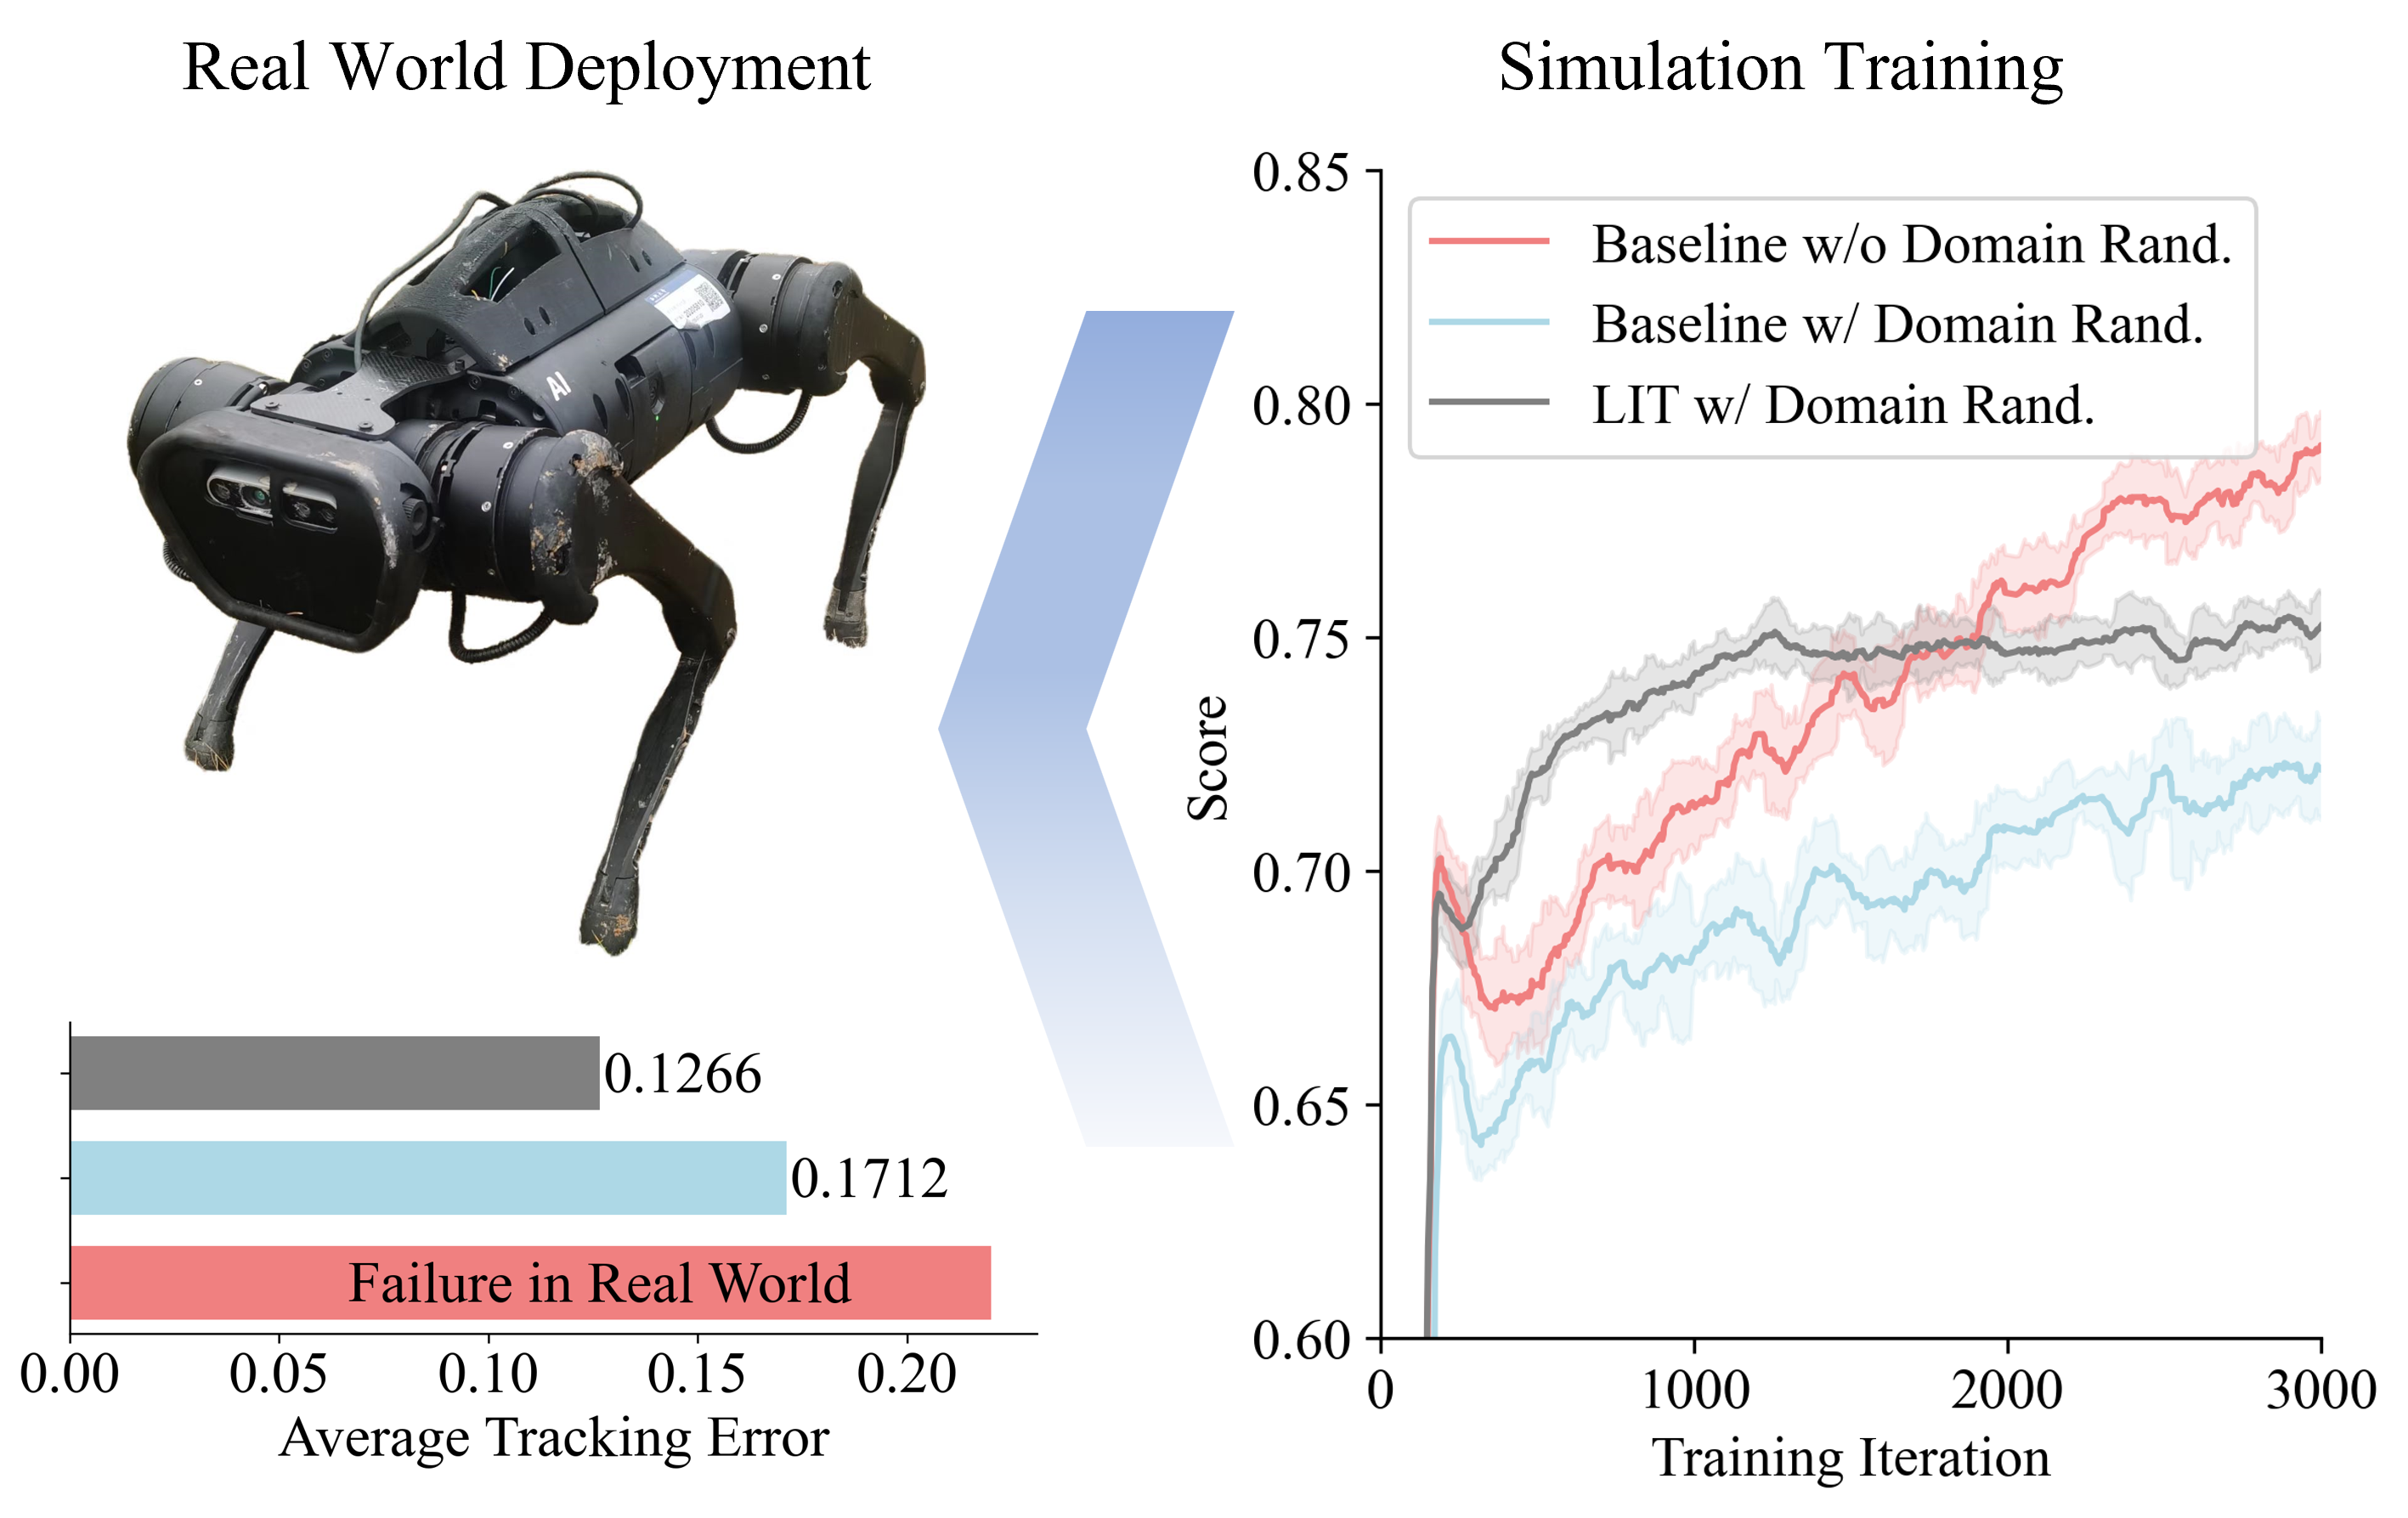
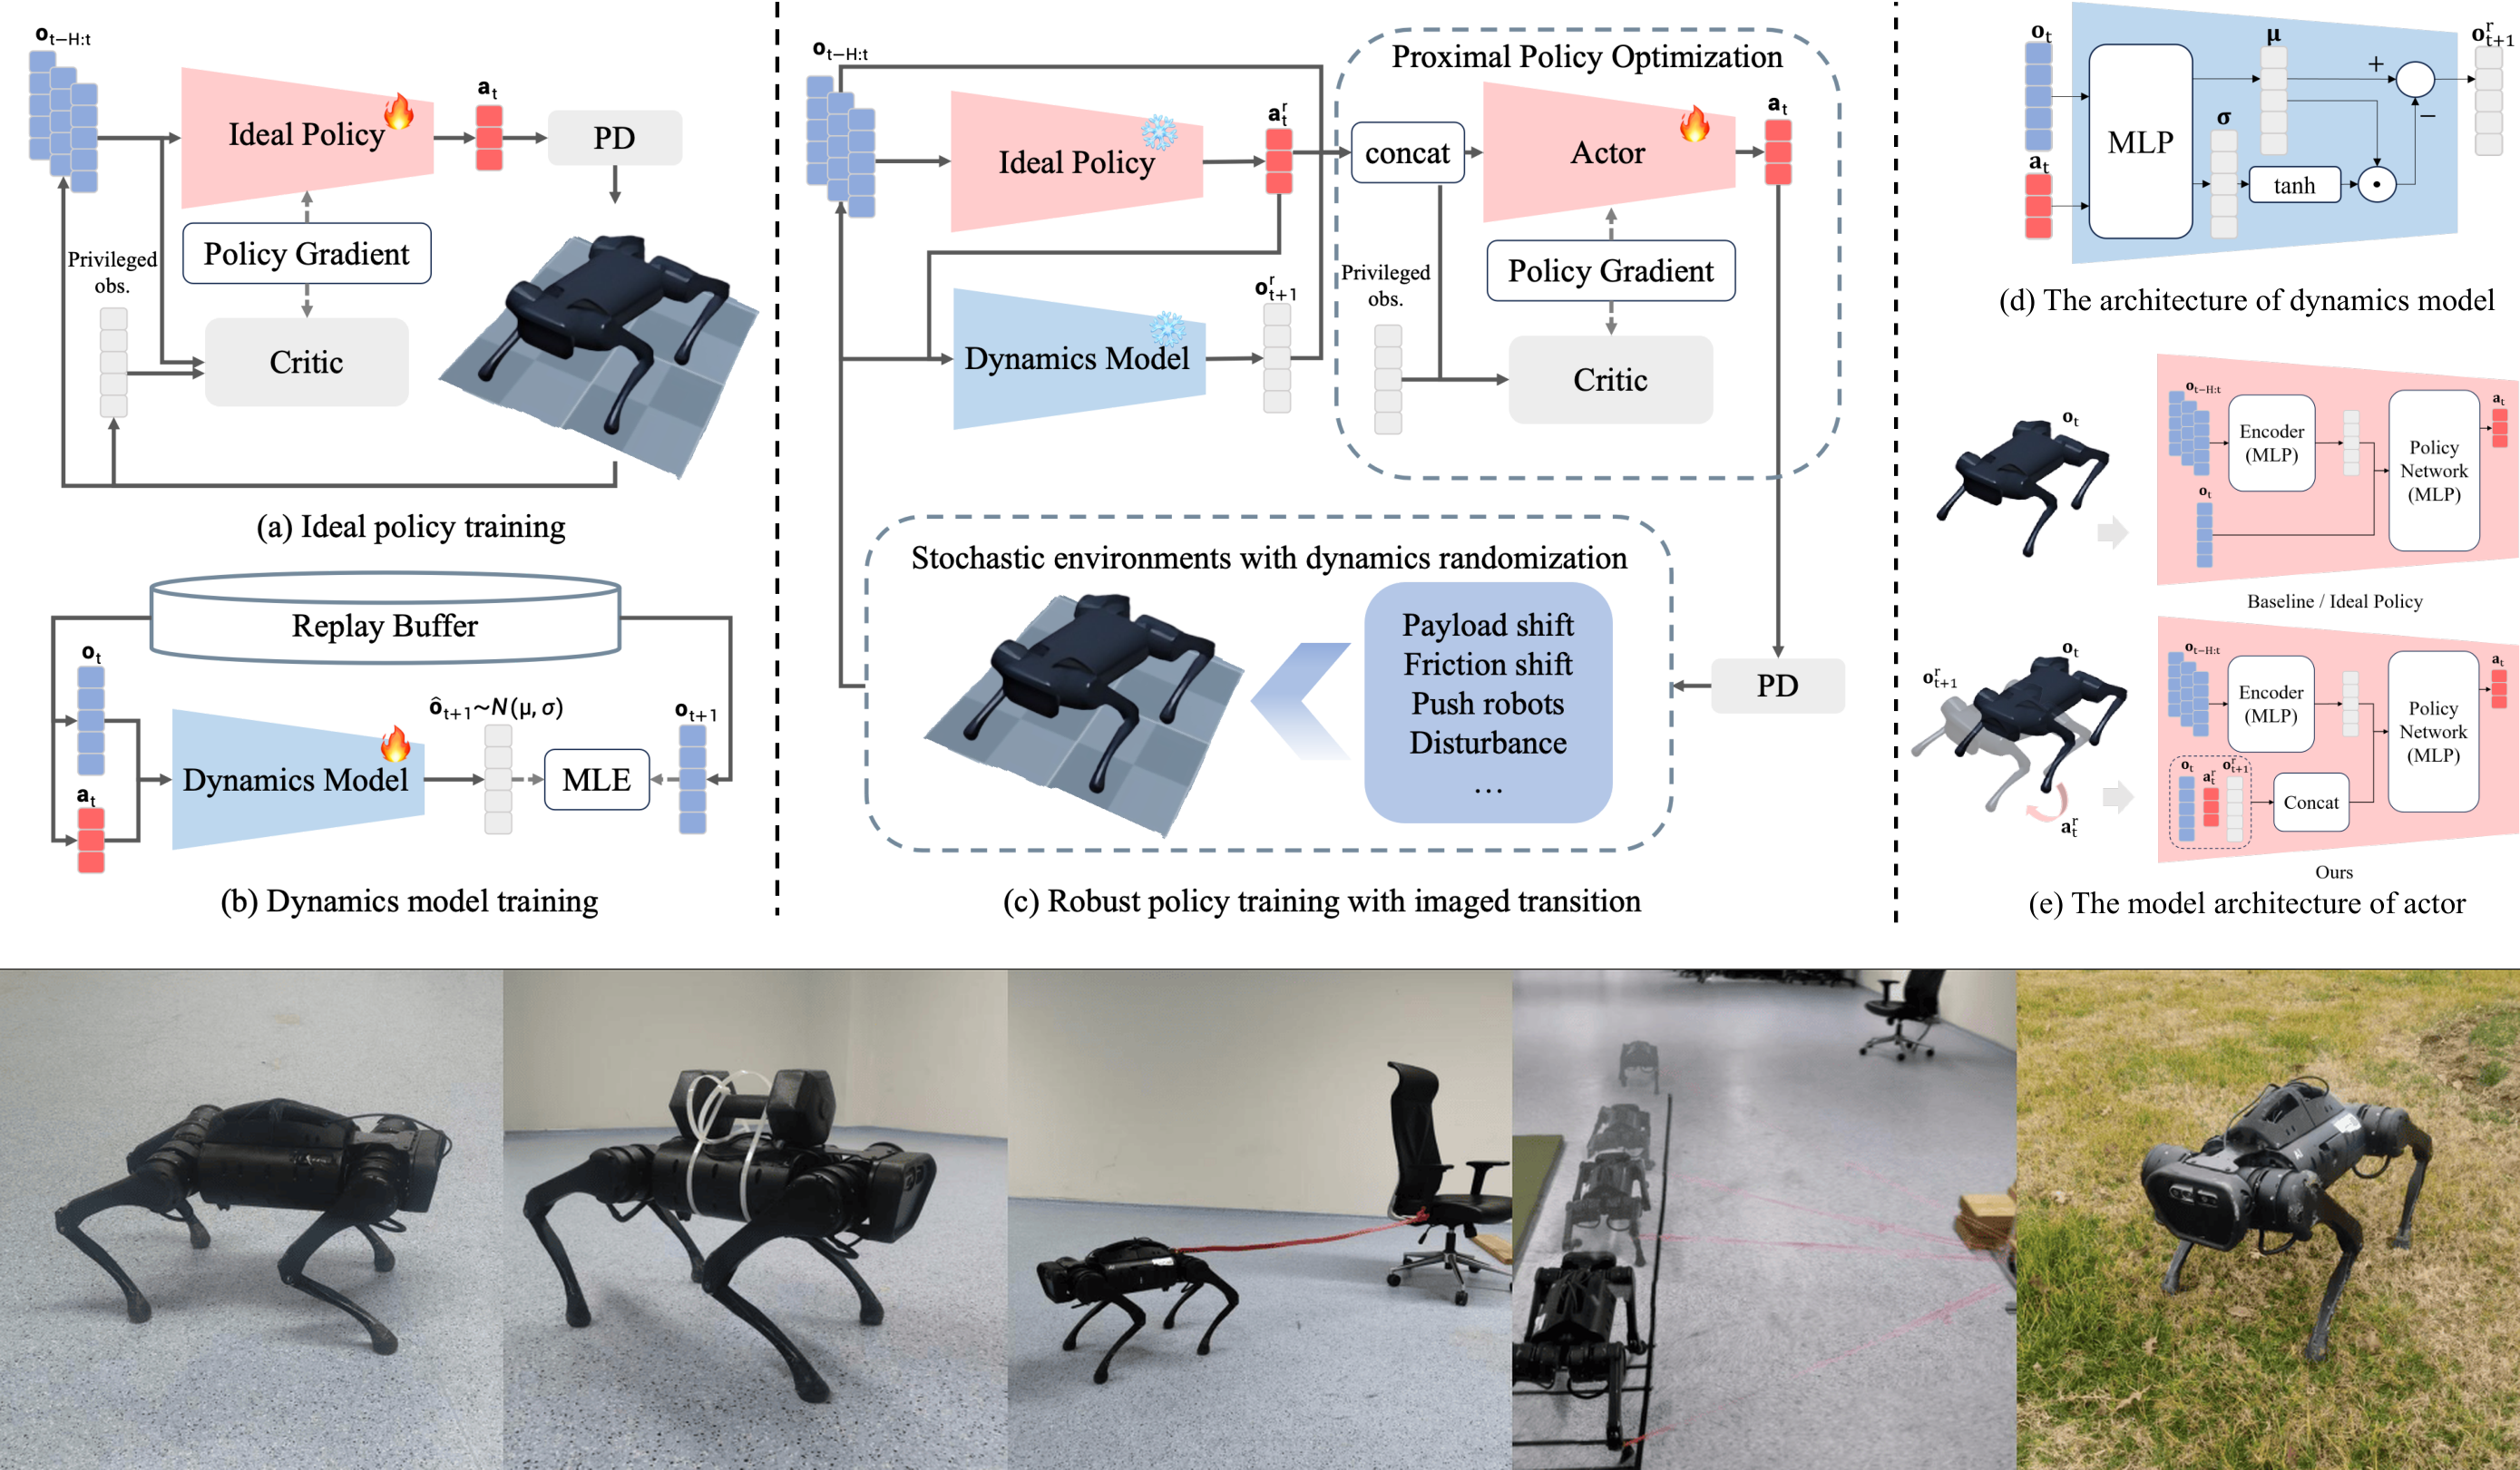
Update LIT (CASE 2026 + project page) and add project links
- LIT: mark accepted to CASE 2026, add project page, swap teaser to
  framework + real-world (5 scenarios) composite
- KORR: add project page and code links
- TrajBooster: add project page link
- News: add LIT CASE 2026 acceptance

diff --git a/_pages/about.md b/_pages/about.md
@@ -42,6 +42,7 @@ redirect_from:
 
 # News
 <span class='anchor' id='-news'></span>
+- *2026.5*: &nbsp;🎉 [LIT](https://xiaowei-i.github.io/lit-locomotion/) is accepted by CASE 2026!
 - *2026.1*: &nbsp;🎉 [KORR](https://arxiv.org/abs/2509.12562) and [TrajBooster](https://arxiv.org/pdf/2509.11839) are accepted by ICRA2026, congrats to Jeffrey and Jiacheng！
 - *2025.7*: &nbsp;⭐ A summary of VLA+RL - [Awesome-VLA-RL](https://github.com/OpenHelix-Team/Awesome-VLA-RL) - is available in Github.
 - *2025.5*: &nbsp;🎉 Our works [PORL](https://arxiv.org/abs/2505.16856) and [LIT](https://arxiv.org/abs/2503.10484v1) are available in arxiv.
@@ -68,8 +69,8 @@ redirect_from:
 <div class="pub-body">
 <h3 class="pub-title">Learning Robotic Policy with Imagined Transition: Mitigating the Trade-off between Robustness and Optimality</h3><br />
 <strong>Wei Xiao</strong>*, <a href="https://lsk-robot.github.io/">Shangke Lyu</a>†, <a href="https://zhefeigong.github.io/">Zhefei Gong</a>, Renjie Wang, <a href="https://scholar.google.com/citations?user=-fo6wdwAAAAJ&amp;hl=zh-CN">Donglin Wang</a>†<br />
-<em>Preprint</em><br />
-<a href="https://arxiv.org/abs/2503.10484v1">arxiv</a> / <a href="https://www.bilibili.com/video/BV1wbQDYmENv/">video</a>
+<em>IEEE International Conference on Automation Science and Engineering (CASE)</em>, 2026<br />
+<a href="https://arxiv.org/abs/2503.10484v1">arxiv</a> / <a href="https://xiaowei-i.github.io/lit-locomotion/">project</a> / <a href="https://www.bilibili.com/video/BV1wbQDYmENv/">video</a>
 </div>
 </div>
 
@@ -79,7 +80,7 @@ redirect_from:
 <h3 class="pub-title">Robust Online Residual Refinement via Koopman-Guided Dynamics Modeling</h3><br />
 <a href="https://zhefeigong.github.io/">Zhefei Gong</a>, <a href="https://lsk-robot.github.io/">Shangke Lyu</a>, <a href="https://dingpx.github.io/">Pengxiang Ding</a>, <strong>Wei Xiao</strong>, <a href="https://scholar.google.com/citations?user=-fo6wdwAAAAJ&amp;hl=zh-CN">Donglin Wang</a>†<br />
 <em>IEEE International Conference on Robotics and Automation (ICRA)</em>, 2026<br />
-<a href="https://arxiv.org/abs/2509.12562">arxiv</a>
+<a href="https://arxiv.org/abs/2509.12562">arxiv</a> / <a href="https://zhefeigong.github.io/korr-robot/">project</a> / <a href="https://github.com/ZhefeiGong/korr">code</a>
 </div>
 </div>
 
@@ -89,7 +90,7 @@ redirect_from:
 <h3 class="pub-title">TrajBooster: Boosting Humanoid Whole-Body Manipulation via Trajectory-Centric Learning</h3><br />
 <a href="https://jiachengliu3.github.io/">Jiacheng Liu</a>*, <a href="https://dingpx.github.io/">Pengxiang Ding</a>*, Qihang Zhou, Yuxuan Wu, Da Huang, Zimian Peng, <strong>Wei Xiao</strong>, Weinan Zhang, Lixin Yang, Cewu Lu†, Donglin Wang†<br />
 <em>IEEE International Conference on Robotics and Automation (ICRA)</em>, 2026<br />
-<a href="https://arxiv.org/pdf/2509.11839">arxiv</a> / <a href="https://github.com/jiachengliu3/OpenTrajBooster">code</a>
+<a href="https://arxiv.org/pdf/2509.11839">arxiv</a> / <a href="https://jiachengliu3.github.io/TrajBooster/">project</a> / <a href="https://github.com/jiachengliu3/OpenTrajBooster">code</a>
 </div>
 </div>
 